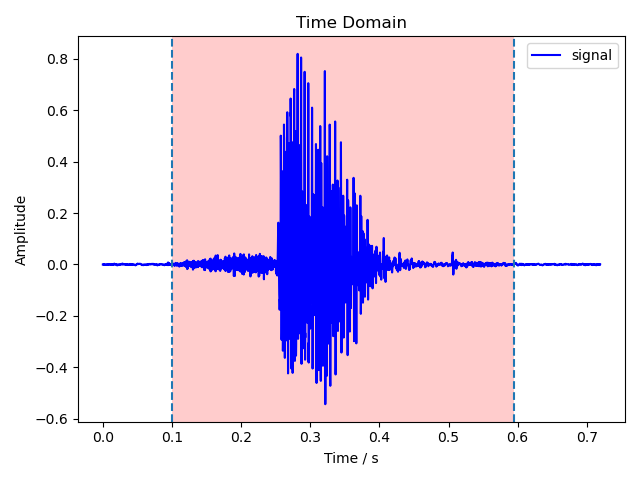
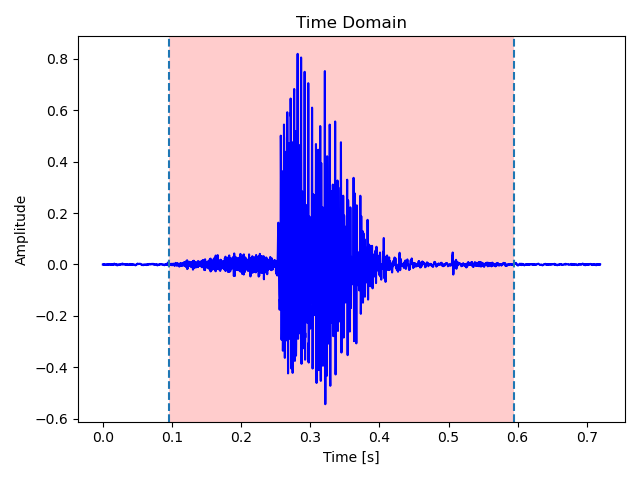
feat: detect voice activities by zero-crossing rate

Changed region(s): [[0.25, 0.0625, 0.2812, 0.875], [0.8125, 0.0938, 0.9688, 0.1562], [0.5, 0.9375, 0.5938, 0.9688]]

diff --git a/main.py b/main.py
@@ -14,6 +14,8 @@ wav_path = Path('data/dev_set')
 fig_path = Path('assets/mfcc/dev_set')
 t_window = 10  # milliseconds
 amp_th = [2e-3, 6e-3]  # amplitude threshold for voice activity
+zcr_th = 1. * 3  # zero-crossing rate (ZCR) threshold for voice activity
+zcr_step_th = 5  # threshold of loop iterations when expanding ranges by ZCR
 
 
 def load_audio(path: Union[str, Path]) -> Tuple[np.ndarray, int]:
@@ -48,10 +50,16 @@ def detect_voice_activity(y: np.ndarray, n_window: int) -> np.ndarray:
     n_samples = y.shape[0]
     i_starts = np.arange(0, n_samples, n_window // 2, dtype=int)
     i_starts = i_starts[i_starts + n_window < n_samples]
-    avg_amps = [np.average(np.abs(y[i:i+n_window])) for i in i_starts]
 
-    # Step 1: Find the ranges by judging whether the average amplitude of this
-    # frame is higher than threshold `amp_th[1]`.
+    avg_amps = [np.average(np.abs(y[i:i+n_window])) for i in i_starts]
+    avg_zcrs = [np.sum(np.abs(
+        np.sign(y[i:i+n_window-1]) - np.sign(y[i+1:i+n_window])
+    )) / 2 / t_window for i in i_starts]
+    fig_zcr_path = fig_path / 'zcr.png'
+    utils.plot_zcr(fig_zcr_path, i_starts, avg_zcrs)
+
+    # Step 1: Find the ranges by judging whether the average amplitude is
+    # higher than threshold `amp_th[1]`.
     ranges_1: List[List[int]] = []
     for k, avg_amp in enumerate(avg_amps):
         if avg_amp > amp_th[1]:
@@ -60,8 +68,8 @@ def detect_voice_activity(y: np.ndarray, n_window: int) -> np.ndarray:
             else:
                 ranges_1.append([k, k])
 
-    # Step 2: Expand the ranges by judging whether the average amplitude of this
-    # frame is higher than threshold `amp_th[0]`.
+    # Step 2: Expand the ranges by judging whether the average amplitude is
+    # higher than threshold `amp_th[0]`.
     ranges_2: List[List[int]] = []
     for r in ranges_1:
         i_start, i_stop = r[0], r[1]
@@ -75,7 +83,24 @@ def detect_voice_activity(y: np.ndarray, n_window: int) -> np.ndarray:
         else:
             ranges_2.append([i_start, i_stop])
 
-    ranges = [[i_starts[r[0]], i_starts[r[1]] + n_window] for r in ranges_2]
+    # Step 3: Expand the ranges by judging whether the average zero-crossing
+    # rate (ZCR) is higher than threshold `zcr_th`.
+    ranges_3: List[List[int]] = []
+    for r in ranges_2:
+        i_start, i_stop = r[0], r[1]
+        i_stop_prev = ranges_3[-1][1] if len(ranges_3) > 0 else 0
+        i_start_min = max(i_stop_prev, r[0] - zcr_step_th)
+        i_stop_max = min(len(i_starts) - 1, r[1] + zcr_step_th)
+        while i_start > i_start_min and avg_zcrs[i_start] > zcr_th:
+            i_start -= 1
+        while i_stop < i_stop_max and avg_zcrs[i_stop] > zcr_th:
+            i_stop += 1
+        if i_start <= i_stop_prev and i_stop_prev != 0:  # overlaps
+            ranges_3[-1][1] = i_stop
+        else:
+            ranges_3.append([i_start, i_stop])
+
+    ranges = [[i_starts[r[0]], i_starts[r[1]] + n_window] for r in ranges_3]
     return np.array(ranges, dtype=float)
 
 

diff --git a/utils.py b/utils.py
@@ -33,18 +33,35 @@ def plot_time_domain(
 
     plt.figure()
     plt.title('Time Domain')
-    plt.xlabel('Time / s')
+    plt.xlabel('Time [s]')
     plt.ylabel('Amplitude')
-    plt.plot(t, y, c='blue', label='signal')
+    plt.plot(t, y, c='blue')
     if ranges is not None:
         for start, stop in ranges:
             plt.axvspan(start, stop, facecolor='r', alpha=0.2)
             plt.axvline(x=start, linestyle='--')
             plt.axvline(x=stop, linestyle='--')
-    plt.legend()
     plt.tight_layout()
     plt.savefig(output_path)
 
+
+def plot_zcr(output_path, t: np.ndarray, y: np.ndarray) -> None:
+    '''
+    Plot the average zero-crossing rate (ZCR) of a wave in time domain.
+
+    Args:
+        `output_path`: path to the output figure
+        `t`: time of samples
+        `y`: the average ZCR curve to plot
+    '''
+
+    plt.figure()
+    plt.title('Zero-Crossing Rate (ZCR)')
+    plt.xlabel('Sample index')
+    plt.ylabel('ZCR [kHz]')
+    plt.plot(t, y)
+    plt.tight_layout()
+    plt.savefig(output_path)
 
 def plot_freq_domain(output_path, f: np.ndarray, y: np.ndarray) -> None:
     '''
@@ -58,10 +75,9 @@ def plot_freq_domain(output_path, f: np.ndarray, y: np.ndarray) -> None:
 
     plt.figure()
     plt.title('Frequency Domain')
-    plt.xlabel('Frequency / Hz')
+    plt.xlabel('Frequency [Hz]')
     plt.ylabel('Amplitude')
-    plt.plot(f, y, c='red', label='power')
-    plt.legend()
+    plt.plot(f, y, c='red')
     plt.tight_layout()
     plt.savefig(output_path)
 
@@ -91,9 +107,9 @@ def plot_spectrogram(
     plt.figure()
     plt.title(f'Spectrogram ({n_fft} window size, hamming window)')
     plt.xticks(xticks, xlabels)
-    plt.xlabel('Time / s')
+    plt.xlabel('Time [s]')
     plt.yticks(yticks, ylabels)
-    plt.ylabel('Frequency / Hz')
+    plt.ylabel('Frequency [Hz]')
     plt.imshow(spec, origin='lower', aspect='auto')
     plt.colorbar(use_gridspec=True)
     plt.tight_layout()
